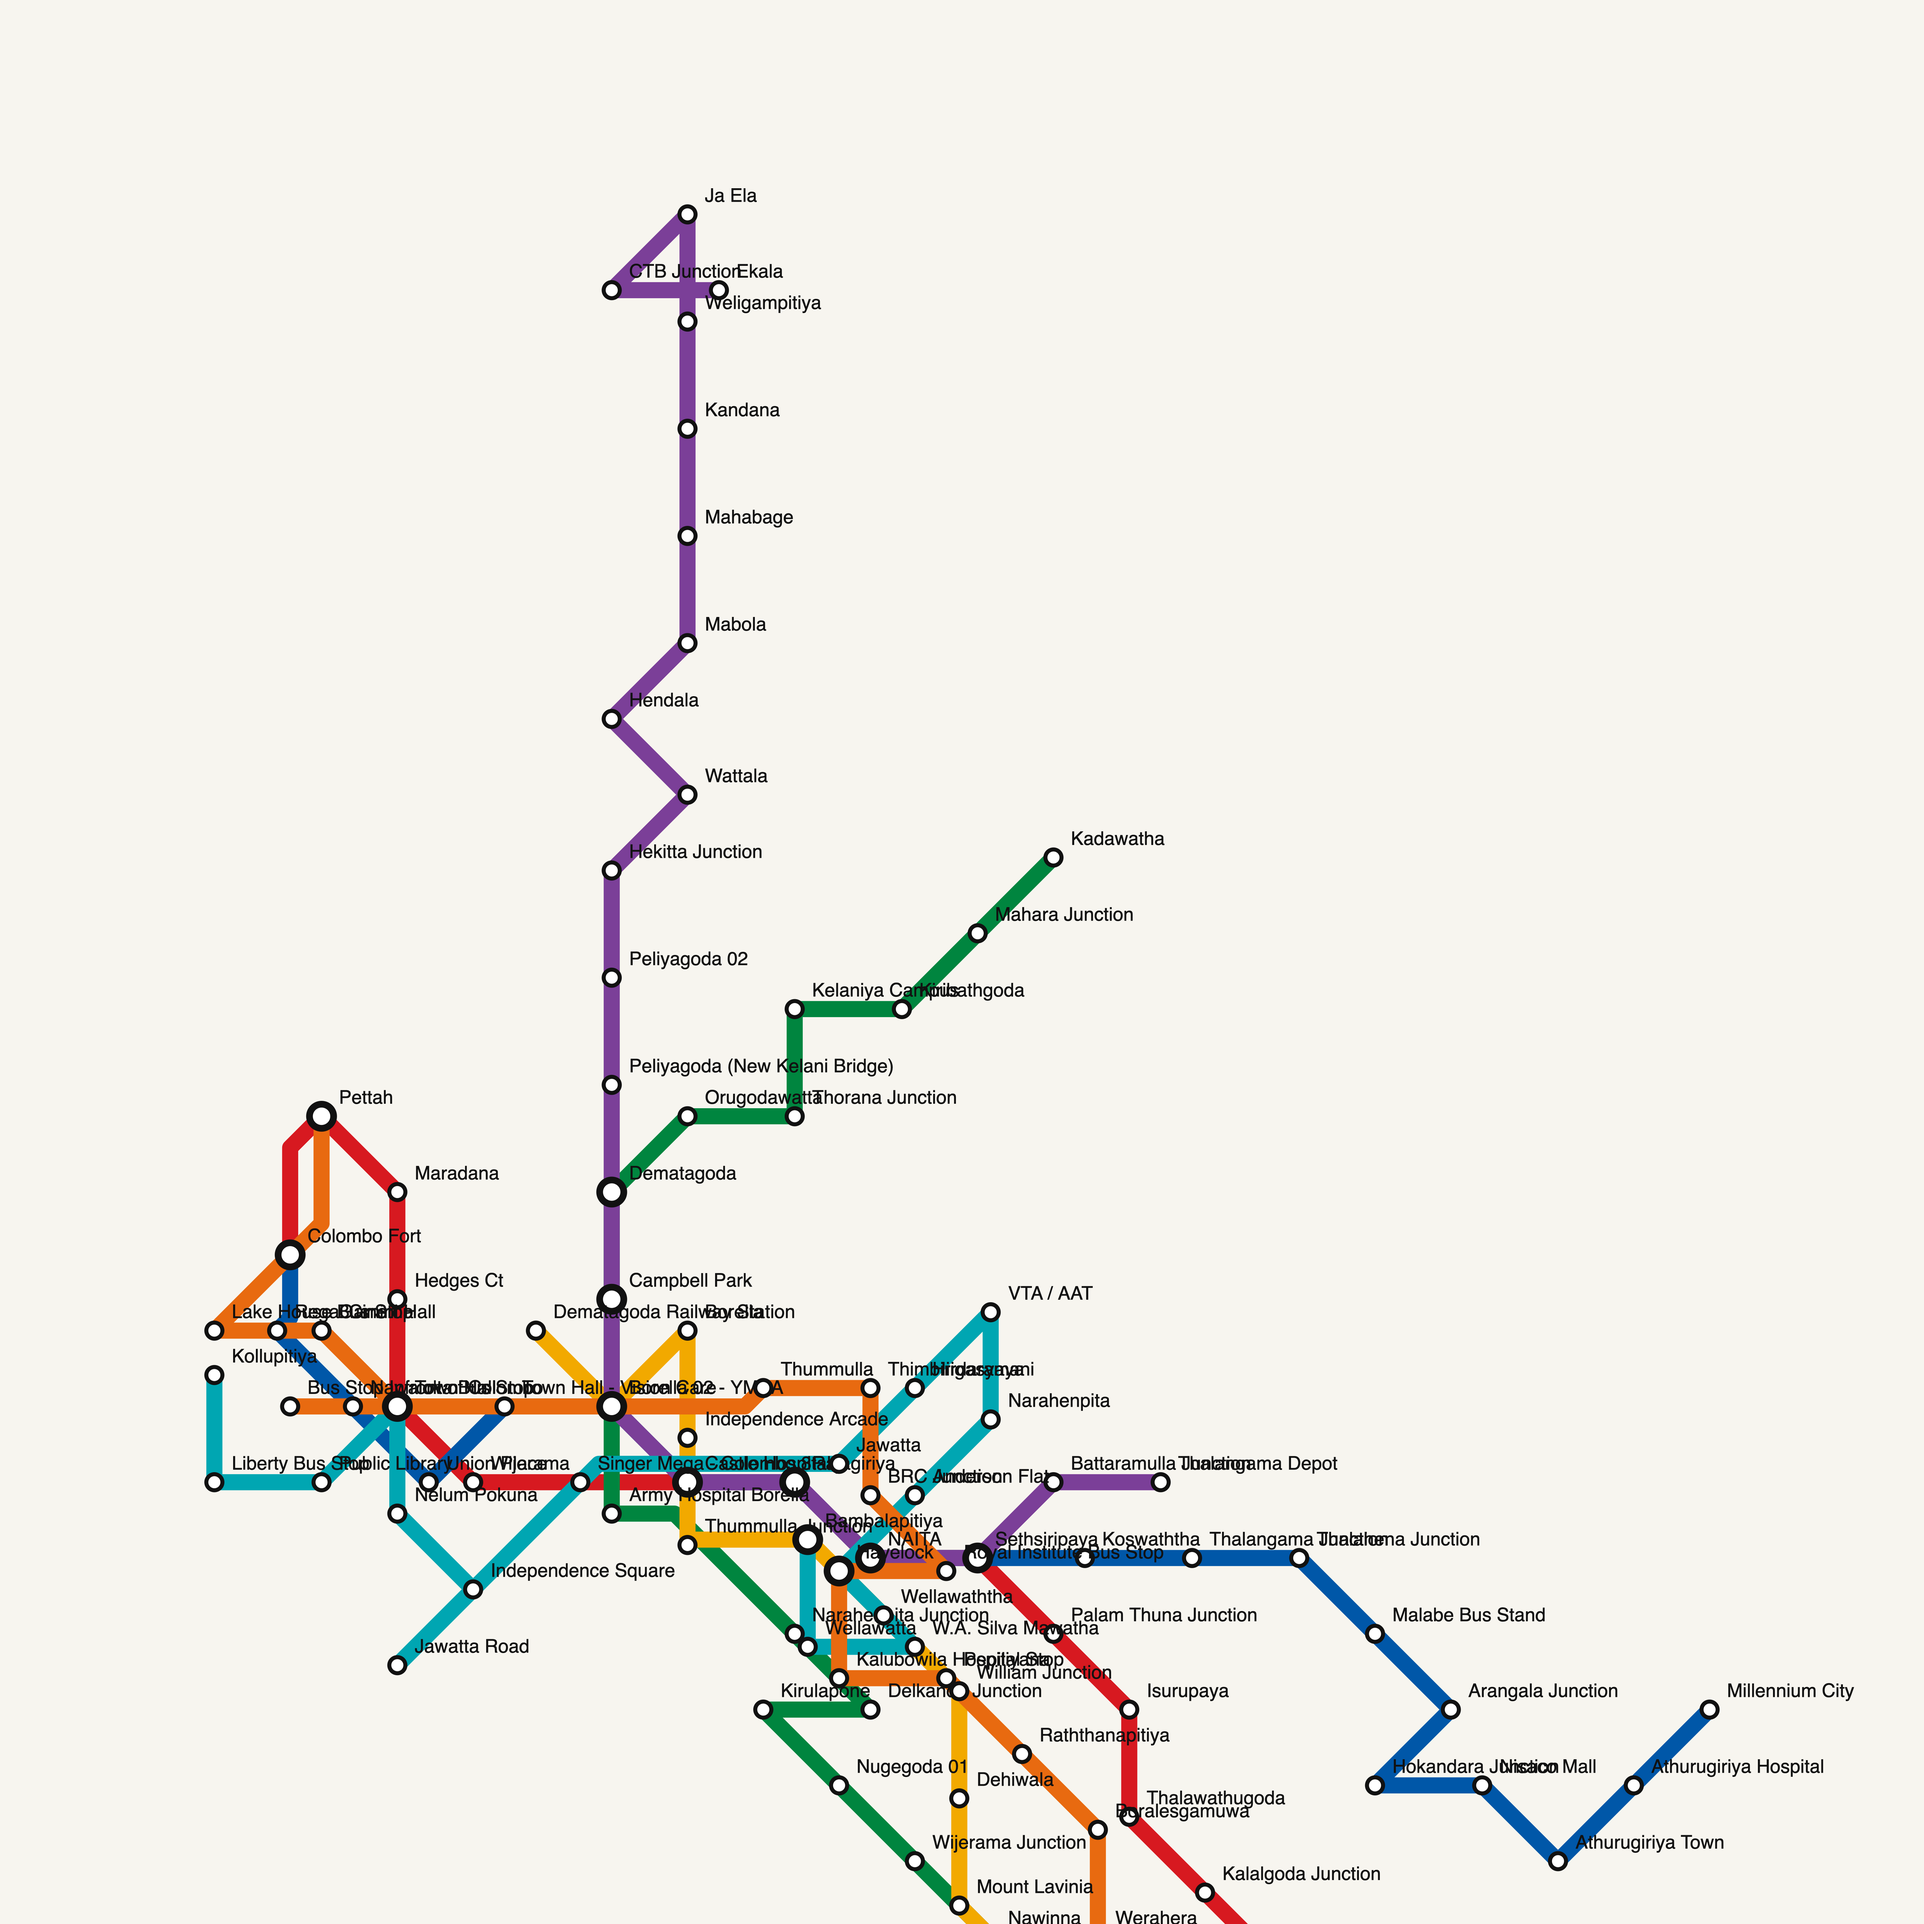
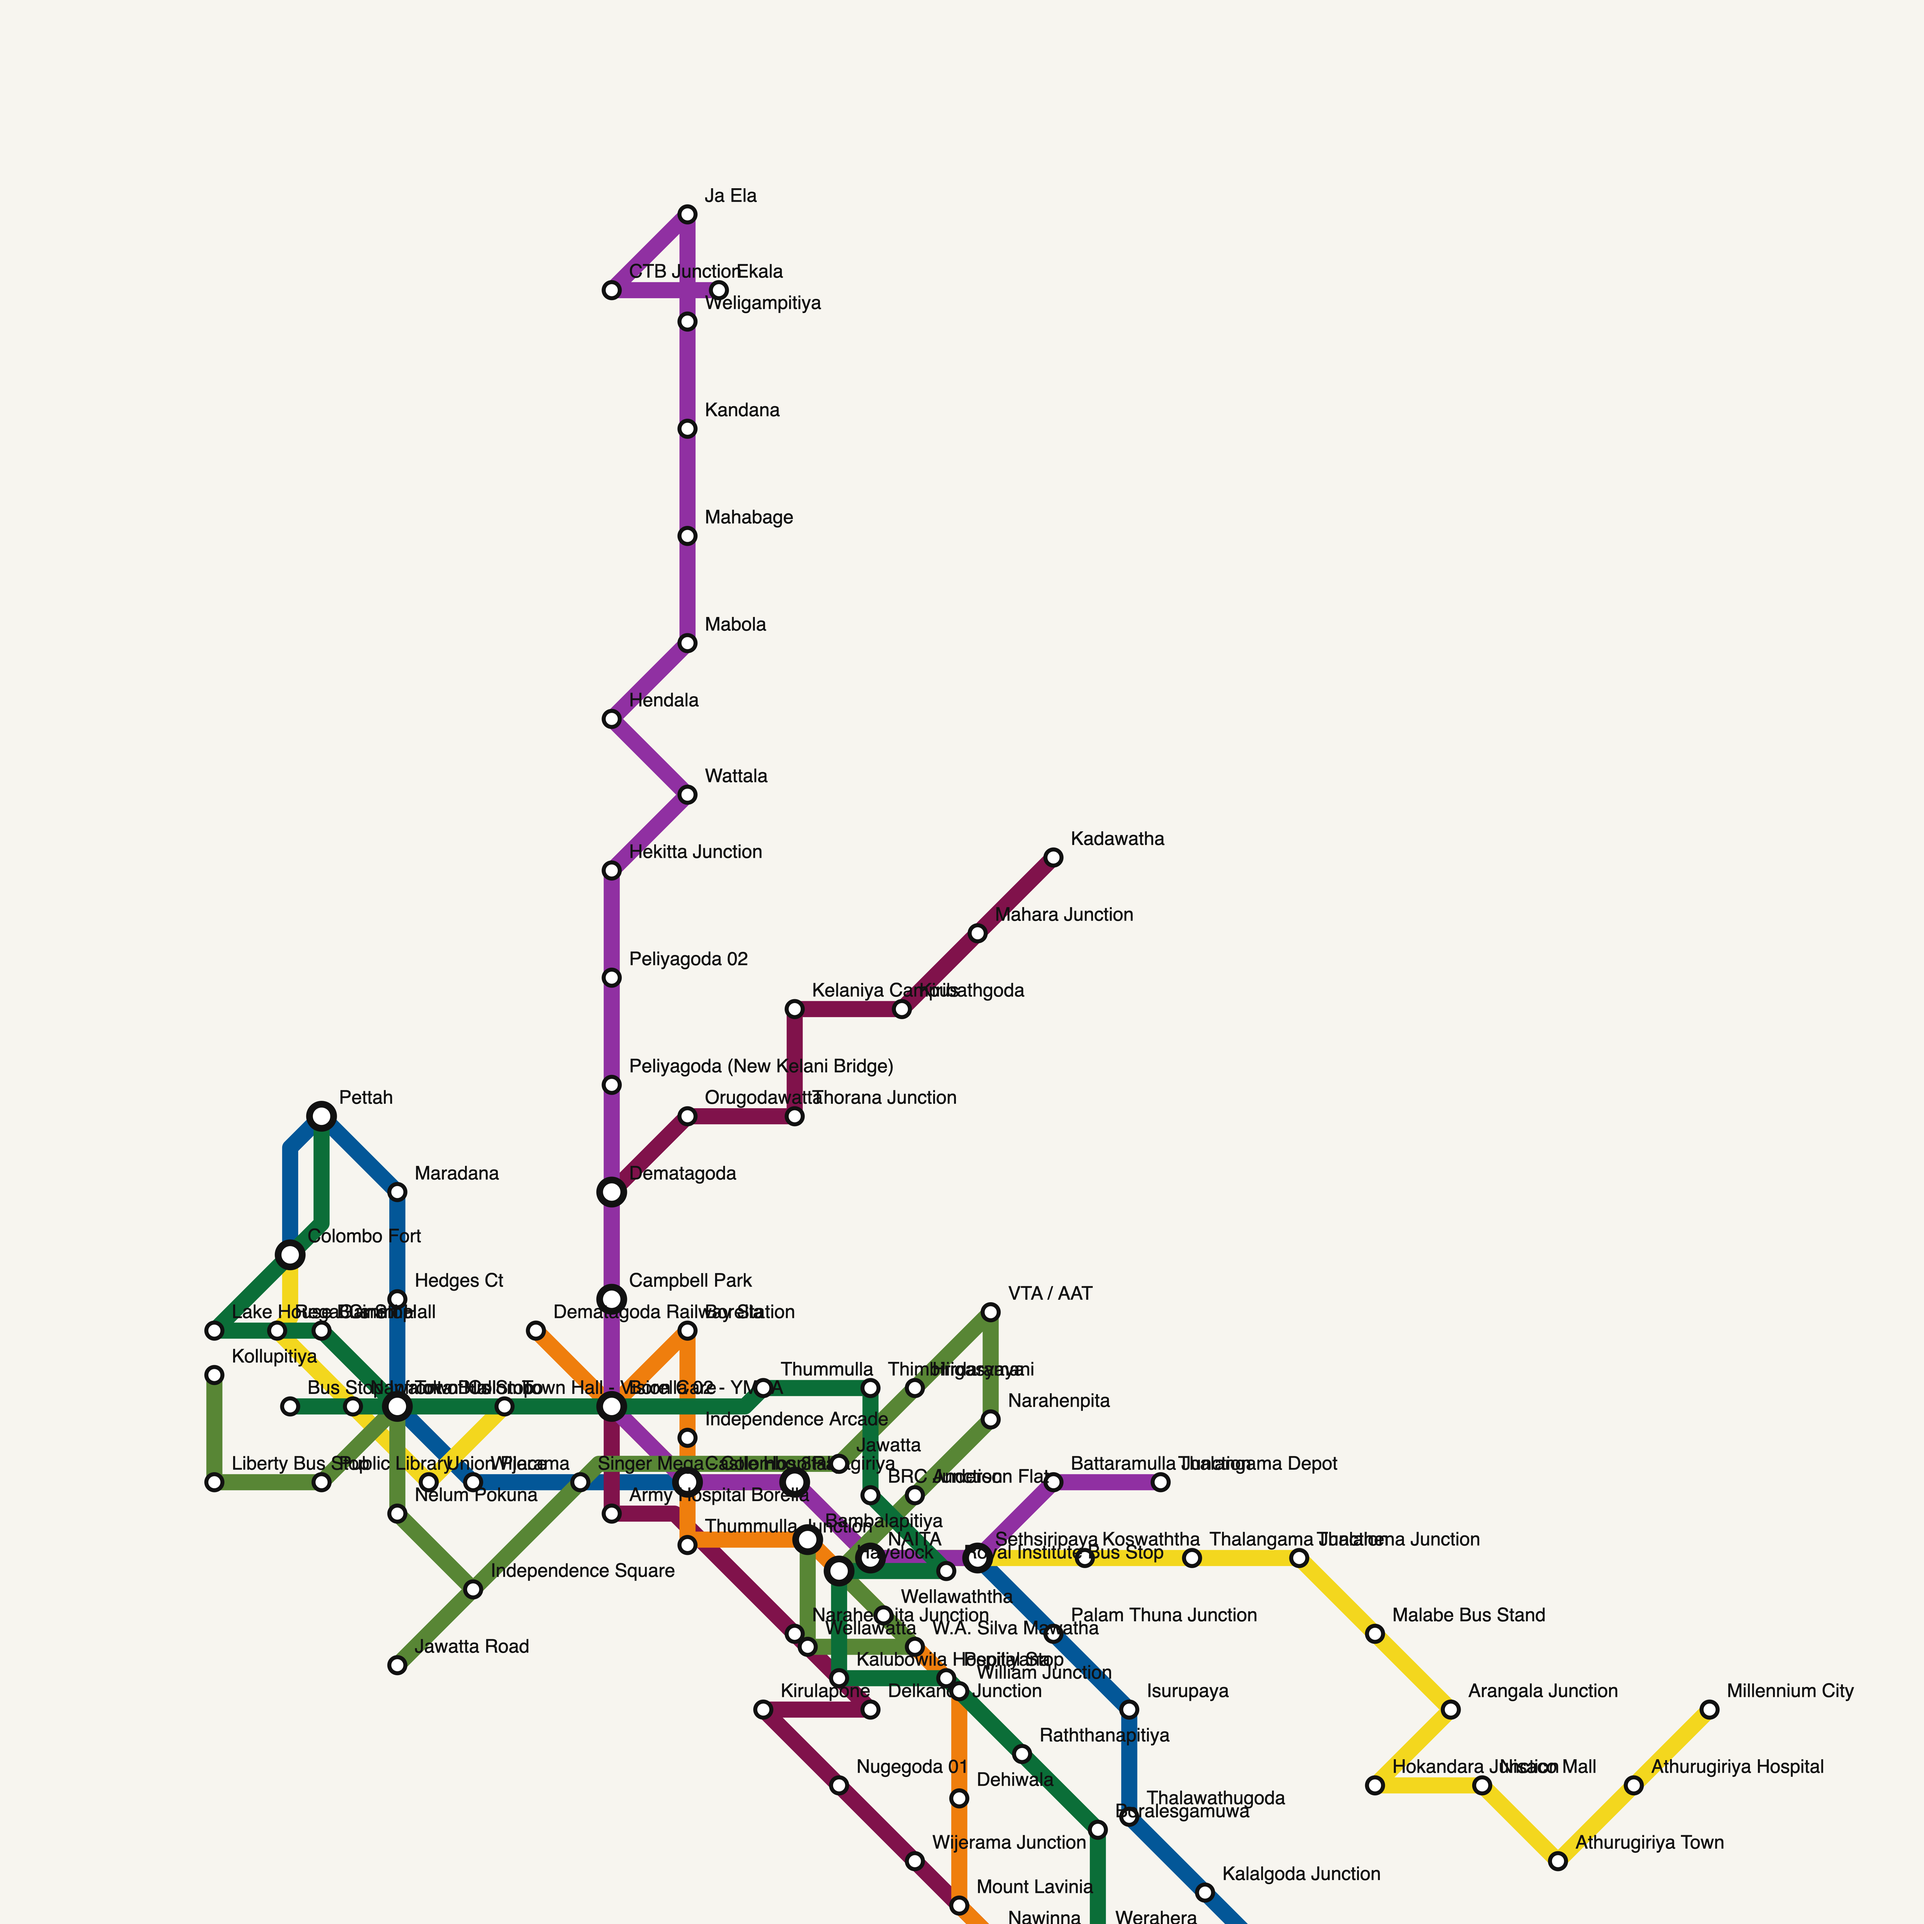
Refactor HarryBeck class to integrate route colors from JSON design and update layout logic

diff --git a/src/lk_metro/HarryBeck.py b/src/lk_metro/HarryBeck.py
@@ -19,15 +19,6 @@ class HarryBeckSegment:
 
 class HarryBeck:
 	DIAGONAL = math.sqrt(0.5)
-	ROUTE_COLORS = (
-		"#d71920",
-		"#0057a8",
-		"#00853f",
-		"#f2a900",
-		"#7b3f98",
-		"#00a6b2",
-		"#e86a10",
-	)
 	DIRECTIONS: tuple[Point, ...] = (
 		(1.0, 0.0),
 		(DIAGONAL, DIAGONAL),
@@ -67,7 +58,7 @@ class HarryBeck:
 		self.design_path = Path(design_path) if design_path else (
 			Path(__file__).resolve().parents[2] / "data" / "harry_beck.json"
 		)
-		self.origin, self.segments = self._read_design()
+		self.origin, self.route_colors, self.segments = self._read_design()
 
 	def layout(self) -> dict[str, Point]:
 		positions: dict[str, Point] = {self.origin: (0.0, 0.0)}
@@ -147,8 +138,8 @@ class HarryBeck:
 			f'<rect width="{width}" height="{height}" fill="#f7f5ef"/>',
 		]
 
-		for index, route in enumerate(self.routes):
-			color = self.ROUTE_COLORS[index % len(self.ROUTE_COLORS)]
+		for route in self.routes:
+			color = self.route_colors[route.id]
 			for path in paths[route.id]:
 				points = " ".join(
 					f"{x},{y}" for x, y in (svg_point(point) for point in path)
@@ -200,7 +191,9 @@ class HarryBeck:
 				"Routes reference unknown stops: " + ", ".join(unknown_stops)
 			)
 
-	def _read_design(self) -> tuple[str, tuple[HarryBeckSegment, ...]]:
+	def _read_design(
+		self,
+	) -> tuple[str, dict[str, str], tuple[HarryBeckSegment, ...]]:
 		with self.design_path.open(encoding="utf-8") as file:
 			design = json.load(file)
 
@@ -209,6 +202,17 @@ class HarryBeck:
 		origin = design.get("origin")
 		if not isinstance(origin, str) or origin not in self._stops_by_name:
 			raise ValueError("Harry Beck design has an invalid origin")
+		route_colors = design.get("route_colors")
+		expected_route_ids = {route.id for route in self.routes}
+		if not isinstance(route_colors, dict) or set(route_colors) != expected_route_ids:
+			raise ValueError("Harry Beck design must define every route color")
+		if not all(
+			isinstance(route_id, str)
+			and isinstance(color, str)
+			and self._is_hex_color(color)
+			for route_id, color in route_colors.items()
+		):
+			raise ValueError("Route colors must use #RRGGBB format")
 		records = design.get("segments")
 		if not isinstance(records, list) or not records:
 			raise ValueError("Harry Beck design must contain segments")
@@ -234,7 +238,17 @@ class HarryBeck:
 				)
 			segments.append(HarryBeckSegment(orientation, tuple(stations)))
 
-		return origin, tuple(segments)
+		return origin, route_colors, tuple(segments)
+
+	@staticmethod
+	def _is_hex_color(color: str) -> bool:
+		if len(color) != 7 or not color.startswith("#"):
+			return False
+		try:
+			int(color[1:], 16)
+		except ValueError:
+			return False
+		return True
 
 	@staticmethod
 	def _same_point(first: Point, second: Point) -> bool:
